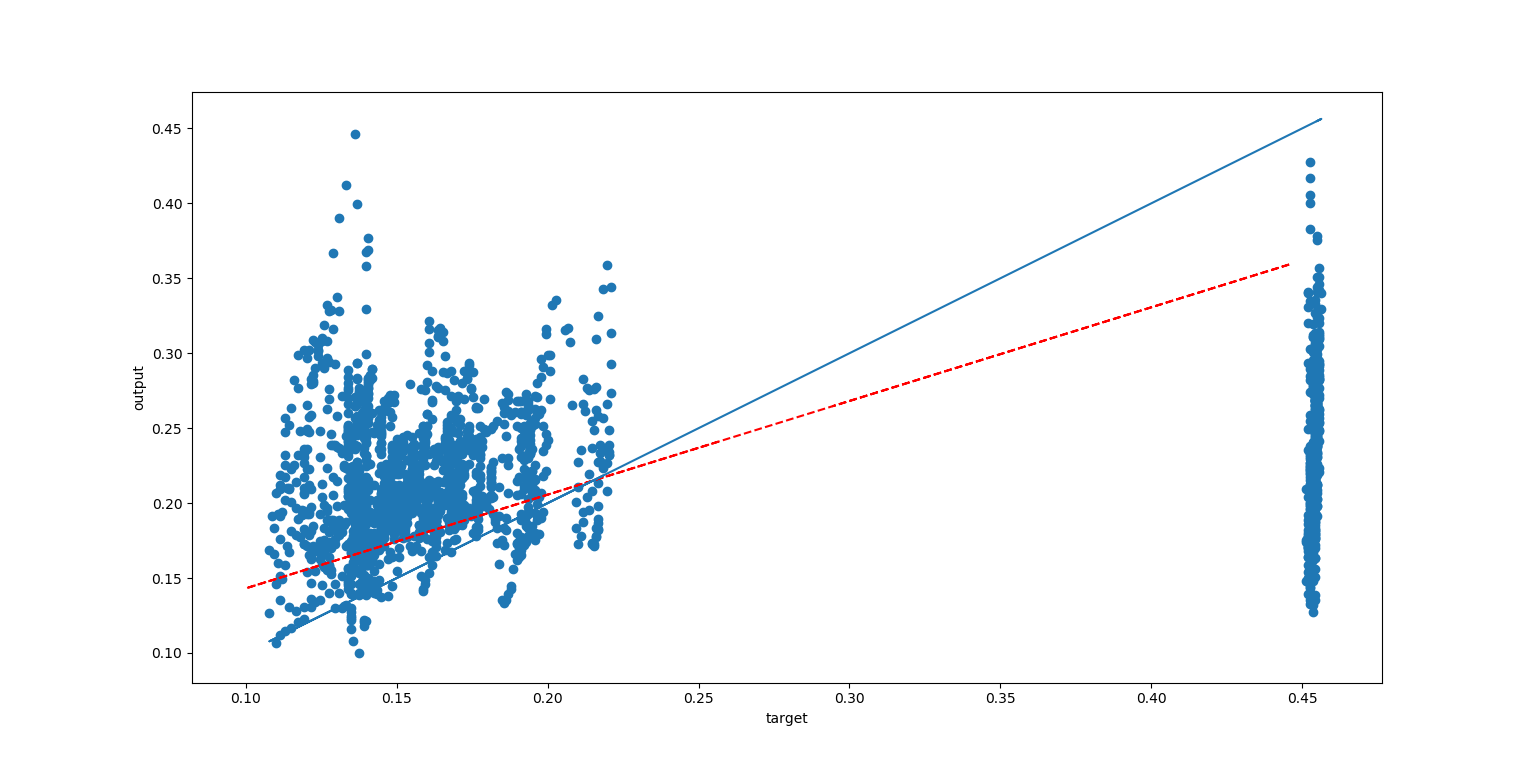
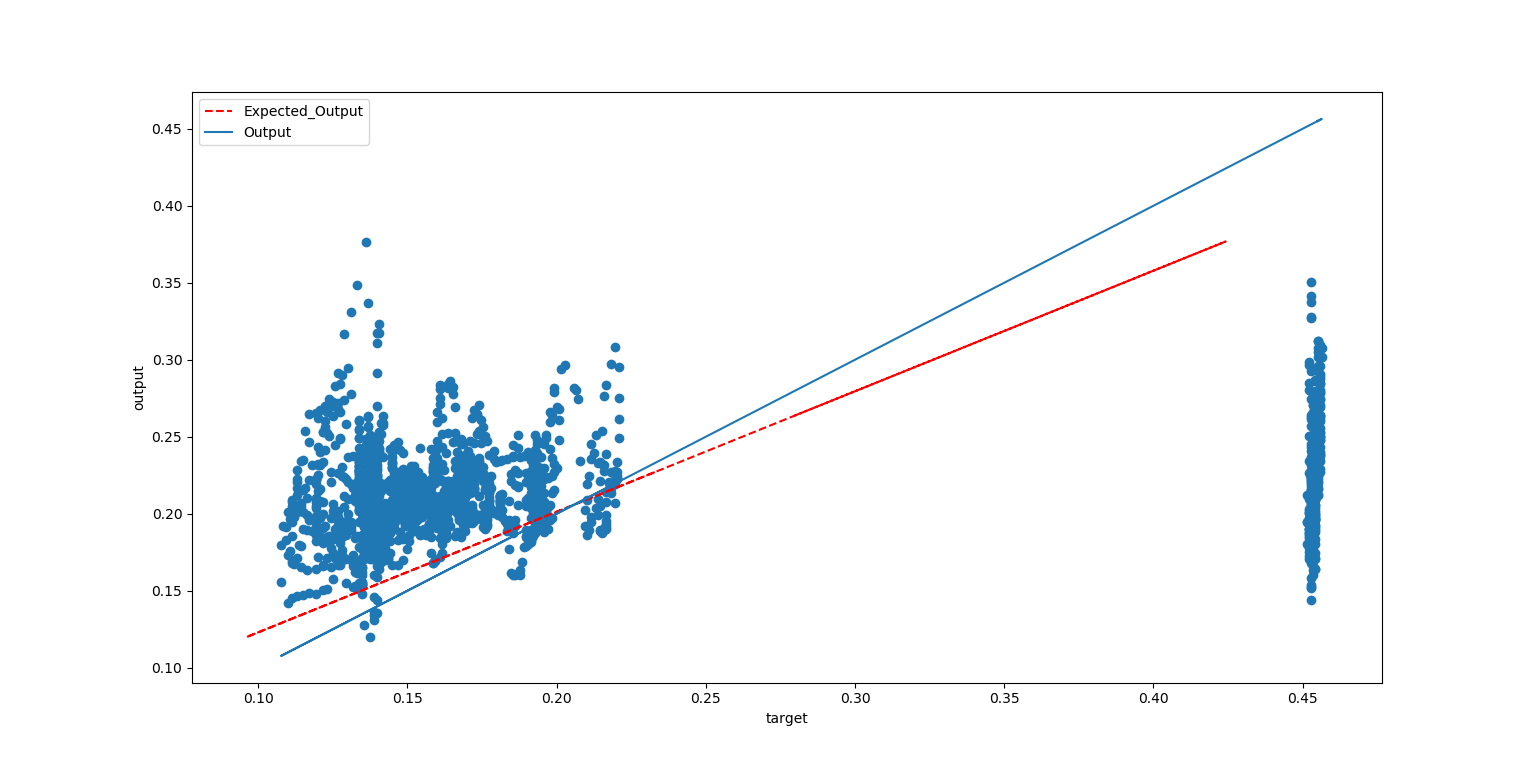
Legend() Function added

diff --git a/DE_MODEL/driver.py b/DE_MODEL/driver.py
@@ -79,15 +79,16 @@ f,b = de(bounds=[(-5,5)] * (3 * nodes_in_hidden_layer + nodes_in_hidden_layer) ,
 print(b)
 plt.xlabel('ITERATION')
 plt.ylabel('FITNESS')
-plt.title('Evolution of fitness on 5000 iterations')
+plt.title('Evolution of fitness on 50 iterations')
 plt.grid()
 plt.plot(f)
 plt.show()
 output = ann(b, nodes_in_hidden_layer)
 plt.xlabel('target')
 plt.ylabel('output')
-p1=np.polyfit(target,output,1)
-plt.plot(output,np.polyval(p1,output),'r:')
+p1=np.polyfit(expected_output,output,1)
+plt.plot(np.polyval(p1,output),output,'r:',label='Expected_Output')
 plt.scatter(expected_output, output)
-plt.plot(expected_output,expected_output)
+plt.plot(expected_output,expected_output,label='Output')
+plt.legend(loc='upper left')
 plt.show()

diff --git a/COMPARISON_MODELS/MLP.py b/COMPARISON_MODELS/MLP.py
@@ -28,10 +28,11 @@ predicted_scale=model.predict(xs)
 print(predicted_scale)
 print("RMSE", mean_squared_error(ys,predicted_scale))
 p1=np.polyfit(predicted_scale,ys,1)
-plt.plot(predicted_scale,np.polyval(p1,predicted_scale),'r--')
+plt.plot(np.polyval(p1,predicted_scale),predicted_scale,'r--',label='Expected_Output')
 plt.xlabel('target')
 plt.ylabel('output')
 #plt.ylim((0,1))
 plt.scatter(ys,predicted_scale)
-plt.plot(ys,ys)
+plt.plot(ys,ys,label='Output')
+plt.legend(loc='upper left')
 plt.show()

diff --git a/COMPARISON_MODELS/svm.py b/COMPARISON_MODELS/svm.py
@@ -33,10 +33,11 @@ z=np.std(np.square(np.subtract(y_test,y_poly)))
 print("\n||MODEL RMSE||\n")
 print('RMSE_POLY::',z)
 p1=np.polyfit(y_poly,y_test,1)
-plt.plot(y_poly,np.polyval(p1,y_poly),'r:')
+plt.plot(y_poly,np.polyval(p1,y_poly),'r:',label='Expected_Output')
 plt.xlabel('target')
 plt.ylabel('output')
 #plt.ylim((0,1))
 plt.scatter(y_test,y_poly)
-plt.plot(y_test,y_test)
+plt.plot(y_test,y_test,label='Output')
+plt.legend(loc='upper left')
 plt.show()
